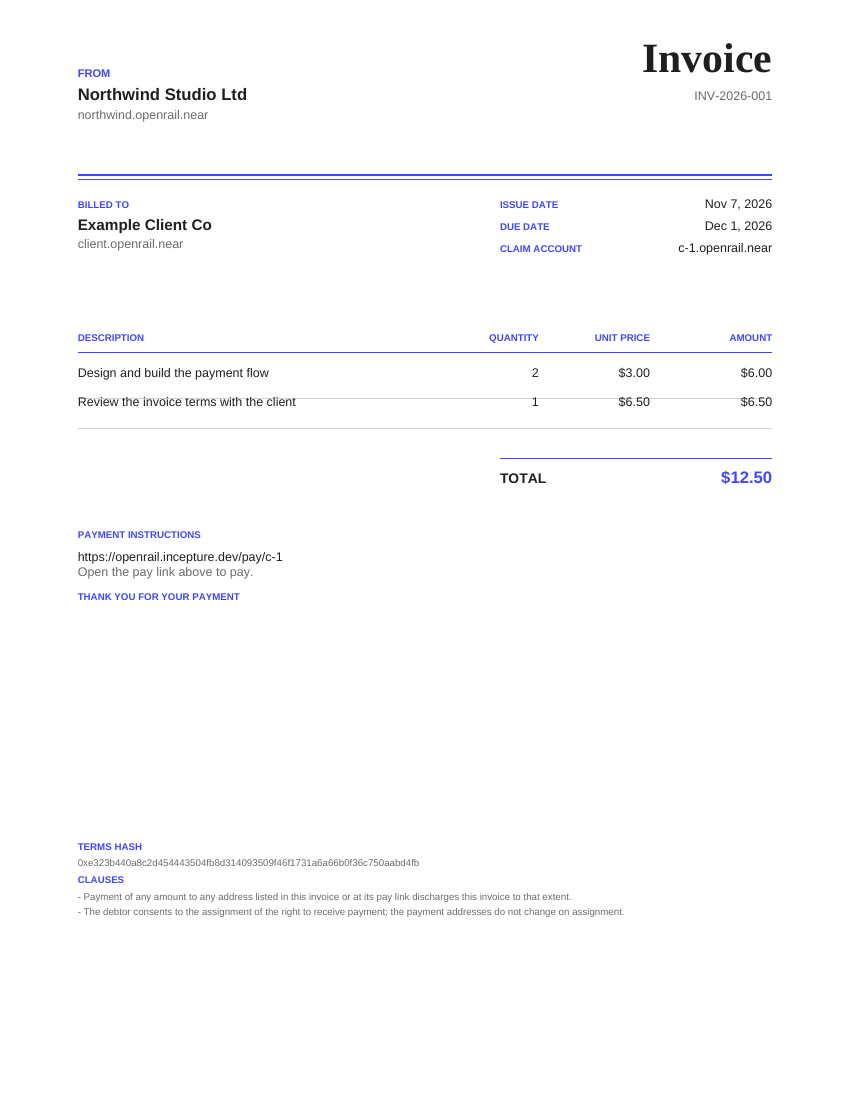
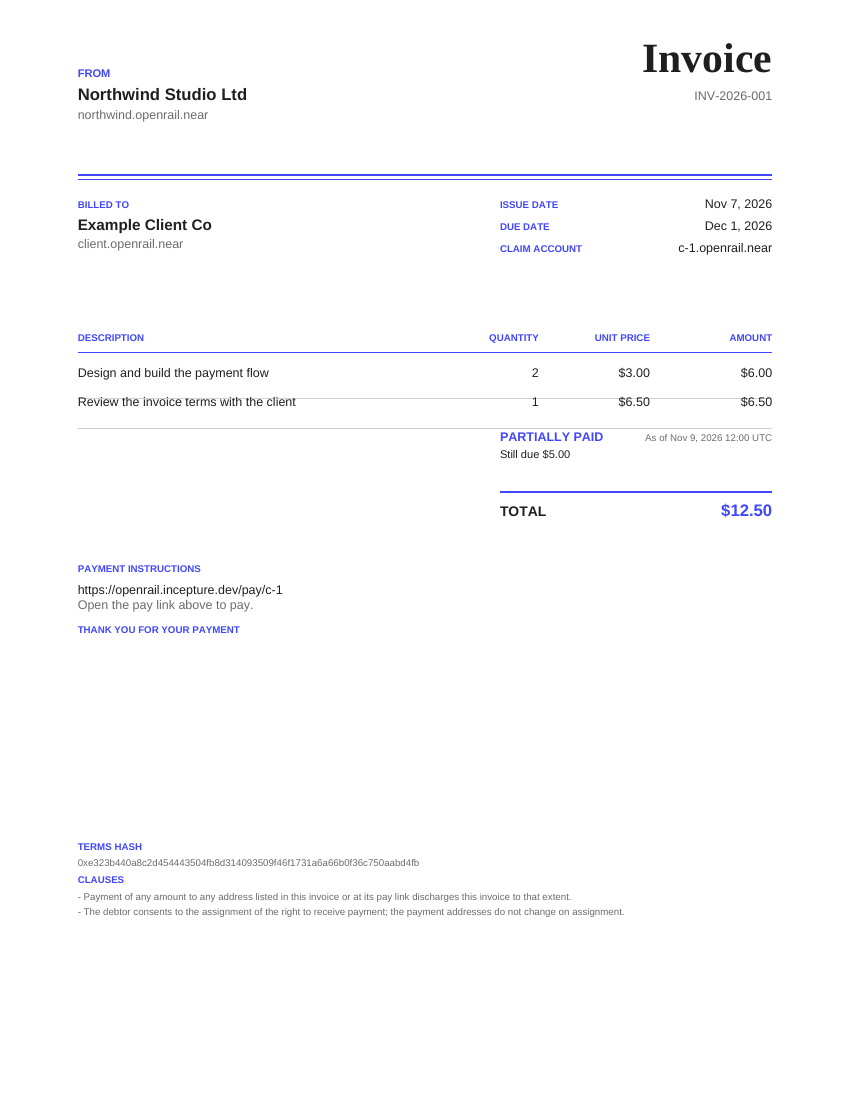
api: show payment status in the invoice PDF

diff --git a/services/api/src/pdf.ts b/services/api/src/pdf.ts
@@ -21,6 +21,15 @@ const GRAY = "0.42 0.42 0.42";
 
 export type Font = "/F1" | "/F2" | "/F3" | "/F4";
 
+export interface InvoiceStatusInfo {
+  status: string;
+  outstandingUsd?: string;
+  paidAt?: string;
+  receiptId?: string;
+  verifyCommand?: string;
+  generatedAt: string;
+}
+
 interface PageBuilder {
   pages: string[];
   content: string;
@@ -46,6 +55,19 @@ function formatDate(iso: string): string {
   const day = Number(match[3]);
   if (month < 1 || month > 12 || day < 1 || day > 31) return "—";
   return `${MONTHS[month - 1]} ${day}, ${year}`;
+}
+
+function formatDateTime(iso: string): string {
+  const date = formatDate(iso);
+  const time = /T(\d{2}):(\d{2})/.exec(iso);
+  if (date === "—" || time === null) return "—";
+  return `${date} ${time[1]}:${time[2]} UTC`;
+}
+
+function statusMark(status: string): string {
+  if (status === "Paid") return "PAID";
+  if (status === "PartiallyPaid") return "PARTIALLY PAID";
+  return "UNPAID";
 }
 
 // Adobe standard-font widths (per 1000 em) for the printable ASCII range. Keeping these
@@ -308,8 +330,30 @@ function drawTable(builder: PageBuilder, terms: Terms, lineItems?: readonly Line
   builder.y -= 4;
 }
 
-function drawTotals(builder: PageBuilder, terms: Terms): void {
+function drawTotals(builder: PageBuilder, terms: Terms, status?: InvoiceStatusInfo): void {
   const amount = `$${terms.amount_usd}`;
+  if (status !== undefined) {
+    text(builder, 360, builder.y, 9, "/F2", ACCENT, statusMark(status.status));
+    text(
+      builder,
+      RIGHT,
+      builder.y,
+      7,
+      "/F1",
+      GRAY,
+      `As of ${formatDateTime(status.generatedAt)}`,
+      "right",
+    );
+    builder.y -= 12;
+    if (status.status === "PartiallyPaid" && status.outstandingUsd !== undefined) {
+      text(builder, 360, builder.y, 8, "/F1", INK, `Still due $${status.outstandingUsd}`);
+      builder.y -= 12;
+    }
+    if (status.status === "Paid" && status.paidAt !== undefined) {
+      text(builder, 360, builder.y, 8, "/F1", INK, `Paid ${formatDate(status.paidAt)}`);
+      builder.y -= 12;
+    }
+  }
   builder.y -= 12;
   line(builder, 360, builder.y, RIGHT, builder.y, 1.2, ACCENT);
   builder.y -= 18;
@@ -329,10 +373,25 @@ function drawPayment(builder: PageBuilder, terms: Terms): void {
   builder.y -= 24;
 }
 
-function drawTerms(builder: PageBuilder, terms: Terms, termsHash: string): void {
+function drawTerms(
+  builder: PageBuilder,
+  terms: Terms,
+  termsHash: string,
+  status?: InvoiceStatusInfo,
+): void {
   const invoice = terms.invoice_number;
   builder.y = Math.min(builder.y, 180);
   if (builder.y < MARGIN + 90) beginPage(builder, `Invoice ${invoice} (continued)`);
+  if (status?.status === "Paid" && status.receiptId !== undefined) {
+    label(builder, "RECEIPT", MARGIN, builder.y);
+    builder.y -= 12;
+    text(builder, MARGIN, builder.y, 7, "/F1", GRAY, status.receiptId);
+    builder.y -= 12;
+    if (status.verifyCommand !== undefined) {
+      wrapped(builder, status.verifyCommand, MARGIN, WIDTH, 7, "/F1", GRAY);
+    }
+    builder.y -= 12;
+  }
   label(builder, "TERMS HASH", MARGIN, builder.y);
   builder.y -= 12;
   text(builder, MARGIN, builder.y, 7, "/F1", GRAY, termsHash);
@@ -347,14 +406,15 @@ export function renderInvoicePdf(
   termsHash: string,
   issuedAt?: string,
   lineItems?: readonly LineItem[],
+  status?: InvoiceStatusInfo,
 ): Uint8Array {
   const builder: PageBuilder = { pages: [], content: "", y: PAGE_HEIGHT - MARGIN };
   beginPage(builder, null);
   drawTop(builder, terms, issuedAt);
   drawTable(builder, terms, lineItems);
-  drawTotals(builder, terms);
+  drawTotals(builder, terms, status);
   drawPayment(builder, terms);
-  drawTerms(builder, terms, termsHash);
+  drawTerms(builder, terms, termsHash, status);
   finishPages(builder);
 
   const pageIds = builder.pages.map((_, index) => 7 + index * 2);
@@ -395,6 +455,9 @@ export function renderInvoicePdfBase64(
   termsHash: string,
   issuedAt?: string,
   lineItems?: readonly LineItem[],
+  status?: InvoiceStatusInfo,
 ): string {
-  return Buffer.from(renderInvoicePdf(terms, termsHash, issuedAt, lineItems)).toString("base64");
+  return Buffer.from(renderInvoicePdf(terms, termsHash, issuedAt, lineItems, status)).toString(
+    "base64",
+  );
 }

diff --git a/services/api/src/app.ts b/services/api/src/app.ts
@@ -383,6 +383,12 @@ export function paidTotalOf(claim: Record<string, unknown>, fallback: string): s
   const paid = toBig(claim.booked_total) - toBig(claim.surplus);
   return (paid < 0n ? 0n : paid).toString();
 }
+/** USDC base units (6 decimals) to a two-decimal display amount. */
+function usdFromBase(value: string): string {
+  const base = toBig(value);
+  const cents = base / 10_000n;
+  return `${cents / 100n}.${String(cents % 100n).padStart(2, "0")}`;
+}
 
 export class ApiApp {
   readonly store: ApiStore;
@@ -1051,6 +1057,33 @@ export class ApiApp {
         const context = this.requireAuth(request);
         this.requireScope(context, "invoices:read");
         const invoice = this.ownInvoice(context.accountId, invoiceId);
+        const claim = await this.deps.contract.claim(invoice.token_id);
+        const status = typeof claim.status === "string" ? claim.status : invoice.status;
+        const receipts = this.store.listReceipts(invoice.token_id);
+        const latest = receipts[receipts.length - 1];
+        const generatedAt = nowIso(this.clock);
+        const claimAccount =
+          invoice.claim_account || `${invoice.token_id}.${this.deps.config.rootAccount}`;
+        const content_base64 = renderInvoicePdfBase64(
+          invoice.terms,
+          invoice.terms_hash,
+          invoice.created_at,
+          invoice.line_items,
+          {
+            status,
+            ...(status === "PartiallyPaid"
+              ? { outstandingUsd: usdFromBase(outstandingOf(claim)) }
+              : {}),
+            ...(status === "Paid" && latest !== undefined
+              ? {
+                  paidAt: String(latest.time ?? ""),
+                  receiptId: String(latest.id ?? ""),
+                  verifyCommand: `openrail-verify claim ${claimAccount} --terms-hash ${invoice.terms_hash}`,
+                }
+              : {}),
+            generatedAt,
+          },
+        );
         return {
           status: 200,
           body: {
@@ -1058,14 +1091,9 @@ export class ApiApp {
             token_id: invoice.token_id,
             filename: `${invoice.invoice_number}.pdf`,
             content_type: "application/pdf",
-            content_base64: renderInvoicePdfBase64(
-              invoice.terms,
-              invoice.terms_hash,
-              invoice.created_at,
-              invoice.line_items,
-            ),
+            content_base64,
             sha256: invoice.terms_hash,
-            generated_at: nowIso(this.clock),
+            generated_at: generatedAt,
           },
         };
       }

diff --git a/services/api/src/app.test.ts b/services/api/src/app.test.ts
@@ -479,7 +479,10 @@ describe("invoice route", () => {
     expect(response.status).toBe(200);
     const body = response.body as { content_type: string; content_base64: string };
     expect(body.content_type).toBe("application/pdf");
-    expect(Buffer.from(body.content_base64, "base64").toString("latin1")).toContain("INV-2026-001");
+    const content = Buffer.from(body.content_base64, "base64").toString("latin1");
+    expect(content).toContain("INV-2026-001");
+    expect(content).toContain("UNPAID");
+    expect(content).toContain("Nov 2, 2026 10:00 UTC");
   });
 });
 

diff --git a/services/api/src/pdf.test.ts b/services/api/src/pdf.test.ts
@@ -233,6 +233,7 @@ describe("invoice PDF line items", () => {
 });
 
 describe("invoice PDF payment status", () => {
+  const hash = termsHash(terms);
   const generatedAt = "2026-11-09T12:00:00Z";
   const render = (statusInfo: {
     status: string;
